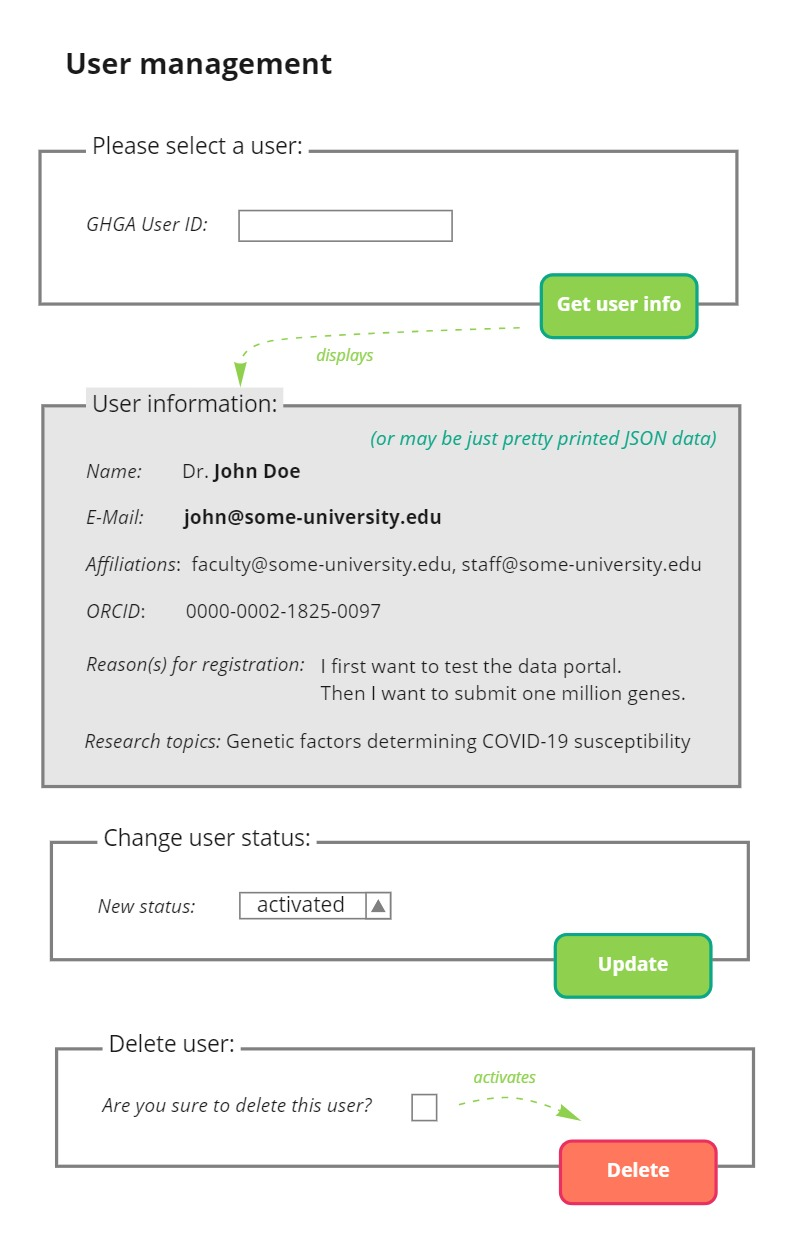
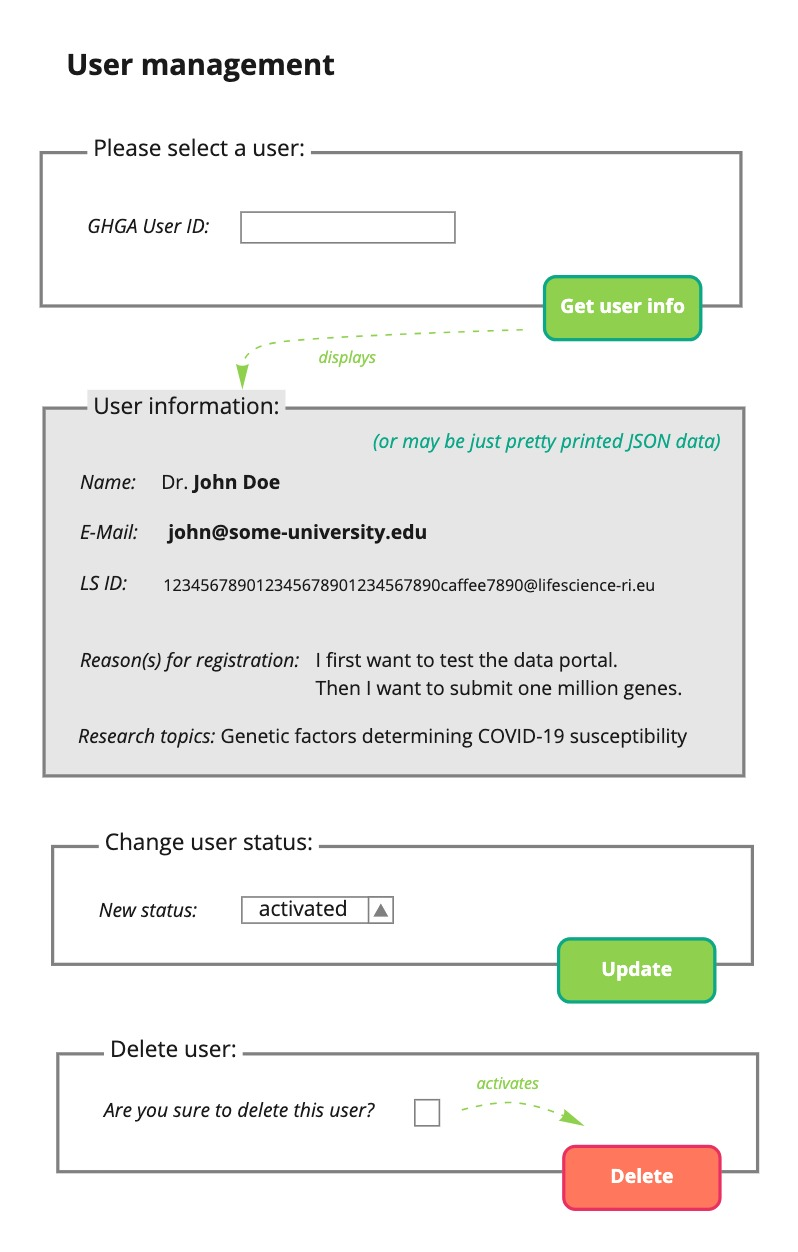
User-Registry: Less synced fields and minor changes (#48)

Changed region(s): [[0.0302, 0.0935, 0.966, 0.9657], [0.0906, 0.0312, 0.4226, 0.0623], [0.0906, 0.1558, 0.2717, 0.1869]]

diff --git a/docs/epics/15-morning-sun-star/technical_specification.md b/docs/epics/15-morning-sun-star/technical_specification.md
@@ -64,14 +64,17 @@ Note that a part of the use data originates at the external identity providers (
 
 This part of the user data that is kept in sync with the external identity provider consists of the following fields:
 
-- subject (LS Login ID)
-- issuer (currently only LS AAI)
+- ls_id (LS Login ID)
 - name (full name, see below)
 - email
+
+The name can also be stored in two separate components (first name and last name or given name and family name) if these can be reliably retrieved via OIDC - currently only the full name (display name) is documented for LS Login. Also note that the semantics of these name parts can be different for international users coming from different cultures.
+
+The following fields that are provided by the external identity provider are currently *not* requested and synchronized:
 - affiliation
 - orcid
 
-The name can also be stored in two separate components (first name and last name or given name and family name) if these can be reliably retrieved via OIDC - currently only the full name (display name) is documented for LS Login. Also note that the semantics of these name parts can be different for international users coming from different cultures.
+Therefore, it may be possible to extract all the necessary information from the access token or ID token alone, and the requests to the UserInfo endpoint of LS Login can be omitted.
 
 The part of the user data that is not provided externally must be provided in the registration process and consists of the following fields:
 
